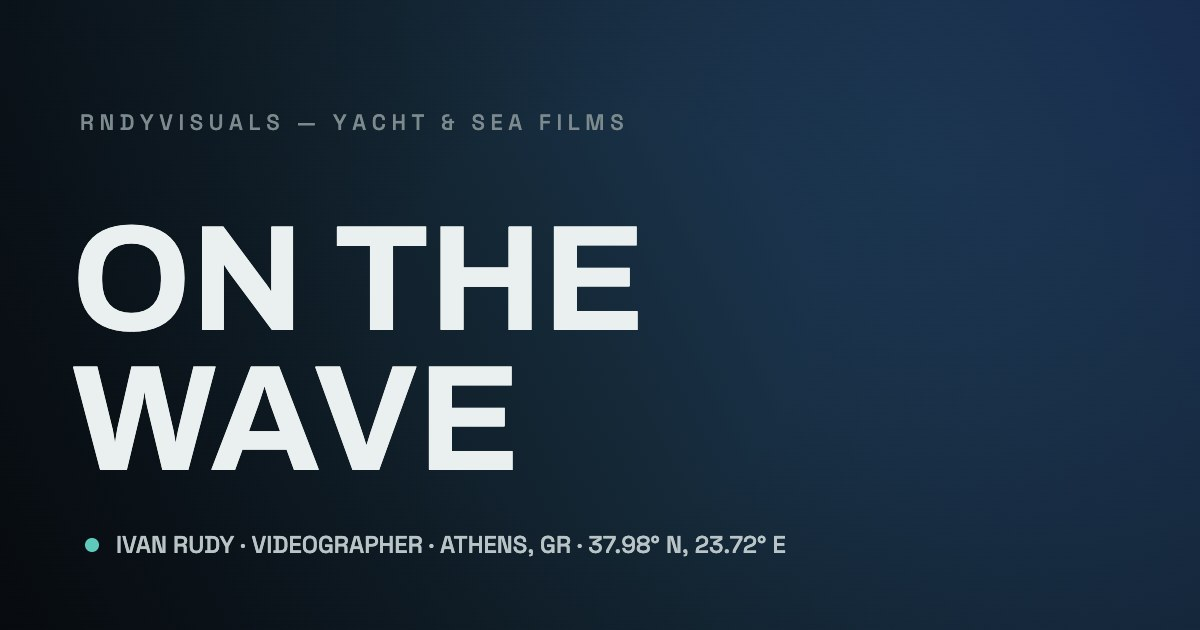
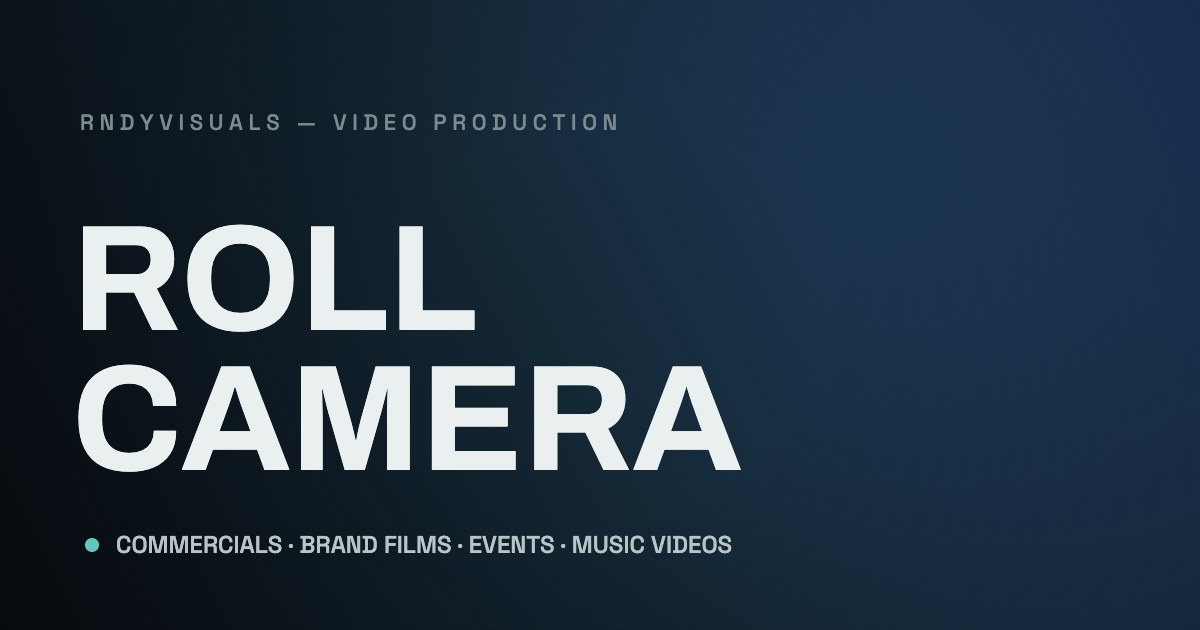
content: reposition RNDY as a commissioned video production company
Strip all yacht/sea/Greece theming from copy. New brand: professional
video production company, commissioned work (commercials, brand films,
events, music). Rewrite hero (ROLL / CAMERA), about, approach, contact,
work-index placeholders + poster category hues, 404, meta/OG, README.
Regenerate og.jpg. Site language stays English.

diff --git a/index.html b/index.html
@@ -3,28 +3,28 @@
   <head>
     <meta charset="UTF-8" />
     <meta name="viewport" content="width=device-width, initial-scale=1.0" />
-    <title>rndyvisuals — Yacht &amp; Sea Films · Ivan Rudy</title>
+    <title>rndyvisuals — Video Production Company</title>
     <meta
       name="description"
-      content="Ivan Rudy — videographer for yachts, regattas and the open sea. Based in Greece, shooting worldwide. Charter films, regatta highlights and licensed aerial coastline work."
+      content="RNDY is a professional video production company. Commercials, brand films, events and music videos — made on commission, from concept to final cut."
     />
     <meta name="theme-color" content="#070B0F" />
     <link rel="icon" href="./favicon.svg" type="image/svg+xml" />
 
     <meta property="og:type" content="website" />
     <meta property="og:site_name" content="rndyvisuals" />
-    <meta property="og:title" content="rndyvisuals — Yacht &amp; Sea Films · Ivan Rudy" />
+    <meta property="og:title" content="rndyvisuals — Video Production Company" />
     <meta
       property="og:description"
-      content="Videographer for yachts, regattas and the open sea. Based in Greece — shooting worldwide."
+      content="A professional video production company. Films made on commission — from concept to final cut."
     />
     <meta property="og:image" content="https://volossoftwaredevelopment.github.io/rndyvisuals/og.jpg" />
     <meta property="og:url" content="https://volossoftwaredevelopment.github.io/rndyvisuals/" />
     <meta name="twitter:card" content="summary_large_image" />
-    <meta name="twitter:title" content="rndyvisuals — Yacht &amp; Sea Films · Ivan Rudy" />
+    <meta name="twitter:title" content="rndyvisuals — Video Production Company" />
     <meta
       name="twitter:description"
-      content="Videographer for yachts, regattas and the open sea. Based in Greece — shooting worldwide."
+      content="A professional video production company. Films made on commission — from concept to final cut."
     />
     <meta name="twitter:image" content="https://volossoftwaredevelopment.github.io/rndyvisuals/og.jpg" />
 
@@ -97,8 +97,8 @@
         font-size: 11px;
         font-weight: 500;
         letter-spacing: 0.08em;
+        text-transform: uppercase;
         color: #4e5b60;
-        font-variant-numeric: tabular-nums;
       }
       html:not(.js) #preloader {
         display: none;
@@ -124,11 +124,11 @@
     <div class="preloader" id="preloader" aria-hidden="true">
       <div class="preloader__under"></div>
       <div class="preloader__panel">
-        <p class="preloader__brand">RNDYVISUALS — YACHT &amp; SEA FILMS</p>
+        <p class="preloader__brand">RNDYVISUALS — VIDEO PRODUCTION</p>
         <div class="preloader__counter-mask">
           <span class="preloader__counter">0</span>
         </div>
-        <p class="preloader__coords">37.98° N, 23.72° E</p>
+        <p class="preloader__coords">FILM ON COMMISSION</p>
       </div>
     </div>
 
@@ -172,18 +172,18 @@
           <div class="hero__scrim"></div>
         </div>
         <div class="hero__lockup">
-          <p class="hero__eyebrow micro" data-hero-fade>RNDYVISUALS — IVAN RUDY</p>
+          <p class="hero__eyebrow micro" data-hero-fade>RNDYVISUALS — VIDEO PRODUCTION</p>
           <h1 class="hero__title display">
-            <span class="hero__title-line">ON THE</span>
-            <span class="hero__title-line">WAVE</span>
+            <span class="hero__title-line">ROLL</span>
+            <span class="hero__title-line">CAMERA</span>
           </h1>
           <p class="hero__sub" data-hero-fade>
-            Videographer for yachts, regattas and the open sea. Based in Greece — shooting
-            worldwide.
+            Commercials, brand films, events and music videos — made on commission, from concept to
+            final cut.
           </p>
           <ul class="hero__meta micro tabular" data-hero-fade>
-            <li>ATHENS, GR · 37.98° N, 23.72° E</li>
-            <li>AVAILABLE — SEASON 2026</li>
+            <li>FULL-SERVICE VIDEO PRODUCTION</li>
+            <li>AVAILABLE FOR COMMISSIONS — 2026</li>
           </ul>
           <p class="hero__cta" data-hero-fade>
             <a class="btn" href="#reel" data-magnetic
@@ -202,11 +202,11 @@
           data-cursor="play"
           data-reveal="clip"
           data-parallax-frame
-          aria-label="Play showreel — two minutes of open water"
+          aria-label="Play showreel — two minutes of recent work"
         >
           <span class="reel__inner" data-clip-inner data-parallax-media></span>
           <span class="reel__overlay" aria-hidden="true"></span>
-          <span class="reel__caption" aria-hidden="true">Two minutes of open water.</span>
+          <span class="reel__caption" aria-hidden="true">Two minutes of recent work.</span>
           <span class="chip reel__chip tabular" aria-hidden="true">2:06</span>
           <span class="reel__play micro" aria-hidden="true">PLAY</span>
         </button>
@@ -221,14 +221,14 @@
         <ol class="work__list"></ol>
         <noscript>
           <ol class="noscript-list">
-            <li>01 — Aegean Crossing · S/Y Mythos · Yacht Film · 1:24 · 2025</li>
-            <li>02 — Meltemi · Saronic Regatta Week · Regatta Film · 2:08 · 2025</li>
-            <li>03 — Ionian, Slowly · Navis Yachting · Charter Promo · 1:05 · 2024</li>
-            <li>04 — Coastline Study I · Personal · Drone Study · 1:48 · 2024</li>
-            <li>05 — Delivery at First Light · M/Y Eleonora K · Delivery Film · 1:32 · 2025</li>
-            <li>06 — Spetses Classic · Classic Week Spetses · Regatta Film · 2:24 · 2023</li>
-            <li>07 — The Winter Sea · Personal · Short Film · 3:02 · 2024</li>
-            <li>08 — Tender to Shore · Calypso Charters · Charter Promo · 0:58 · 2023</li>
+            <li>01 — Night Shift · Aperture Coffee · Commercial · 1:12 · 2025</li>
+            <li>02 — Field Notes · Lumen Optics · Brand Film · 2:04 · 2025</li>
+            <li>03 — Afterglow · Kestrel Records · Music Video · 3:18 · 2024</li>
+            <li>04 — Opening Night · Meridian Festival · Event Film · 1:46 · 2024</li>
+            <li>05 — Signature · Oro Atelier · Fashion · 1:20 · 2025</li>
+            <li>06 — Made to Last · Forge &amp; Co. · Product · 0:58 · 2025</li>
+            <li>07 — The Long Way · Northbound · Documentary · 2:40 · 2023</li>
+            <li>08 — Launch Day · Vertex Labs · Corporate · 1:34 · 2023</li>
           </ol>
         </noscript>
       </section>
@@ -236,20 +236,20 @@
       <!-- §4.5 about -->
       <section class="section about" id="about" aria-labelledby="about-title">
         <h2 class="section__title display" id="about-title" data-reveal="headline-lines">
-          SHOT FROM THE WATER, NOT THE SHORE.
+          FROM BRIEF TO FINAL CUT.
         </h2>
         <div class="about__grid">
           <figure class="about__portrait" data-reveal="clip">
             <span class="about__portrait-art" data-clip-inner aria-hidden="true">
               <span class="about__portrait-sea"></span>
               <span class="about__portrait-grain"></span>
-              <span class="about__portrait-meta micro tabular">ON LOCATION · 37.98° N, 23.72° E</span>
+              <span class="about__portrait-meta micro tabular">ON SET · IN THE EDIT</span>
             </span>
             <!-- drop-in slot for the real portrait still:
             <img
               class="about__photo"
               src="./portrait.jpg"
-              alt="Ivan Rudy filming from a tender at sea"
+              alt="RNDY crew on set"
               loading="lazy"
               decoding="async"
             />
@@ -257,19 +257,19 @@
           </figure>
           <div class="about__copy">
             <p class="about__lede" data-reveal="fade-up">
-              I'm Ivan — a videographer based in Greece, working on and around the water.
+              RNDY is a video production company. You bring the brief — we bring the film.
             </p>
             <p class="about__body" data-reveal="fade-up">
-              For the past several seasons I've filmed sailing yachts, motor yachts, regattas and
-              the coastlines between them — from the deck, the tender and the air. My job is simple
-              to say and hard to do: make a vessel feel the way it feels to be aboard. The light at
-              seven in the morning. The sound of the hull at speed. The quiet after the sails are
-              trimmed. I keep crews small, schedules tight and edits honest. If it floats, I'll
-              find the film in it.
+              We're hired to make films: commercials, brand stories, event coverage, music videos.
+              We handle them end to end — concept, crew, shoot, edit, delivery — and we sweat the
+              things that make footage feel expensive: light, timing, sound, restraint. We keep
+              teams tight and briefs honest, we shoot fast without cutting corners, and we hit the
+              deadline. Ninety seconds for a launch or a full campaign across formats, the job is
+              the same: turn your brief into something people actually want to watch.
             </p>
             <ul class="about__meta">
-              <li class="micro" data-reveal="fade-up">BASED — ATHENS, GREECE</li>
-              <li class="micro" data-reveal="fade-up">LICENSED DRONE OPERATOR (EASA A1/A3)</li>
+              <li class="micro" data-reveal="fade-up">COMMISSIONS — WORLDWIDE</li>
+              <li class="micro" data-reveal="fade-up">FULL SERVICE — CONCEPT TO DELIVERY</li>
               <li class="micro" data-reveal="fade-up">DELIVERY — 4K MASTERS + SOCIAL CUTS</li>
             </ul>
           </div>
@@ -278,15 +278,16 @@
 
       <!-- §4.6 services / approach -->
       <section class="section approach" id="approach" aria-labelledby="approach-eyebrow">
-        <p class="eyebrow micro" id="approach-eyebrow" data-reveal="fade-up">WHAT I SHOOT</p>
+        <p class="eyebrow micro" id="approach-eyebrow" data-reveal="fade-up">WHAT WE DO</p>
         <ol class="approach__list">
           <li class="approach__row">
             <span class="approach__rule" data-reveal="rule" aria-hidden="true"></span>
             <div class="approach__inner" data-reveal="fade-up">
               <span class="approach__num micro tabular" aria-hidden="true">01</span>
-              <h3 class="approach__name display">Charter &amp; brokerage films</h3>
+              <h3 class="approach__name display">Commercials &amp; brand films</h3>
               <p class="approach__desc">
-                A vessel's best ninety seconds. Built for charter listings, brokers and owners.
+                A product's best ninety seconds. Built for launches, campaigns and the brands
+                behind them.
               </p>
             </div>
           </li>
@@ -294,9 +295,9 @@
             <span class="approach__rule" data-reveal="rule" aria-hidden="true"></span>
             <div class="approach__inner" data-reveal="fade-up">
               <span class="approach__num micro tabular" aria-hidden="true">02</span>
-              <h3 class="approach__name display">Regattas &amp; events</h3>
+              <h3 class="approach__name display">Events &amp; coverage</h3>
               <p class="approach__desc">
-                Race starts, mark roundings, prize-givings. Same-week highlight edits.
+                Conferences, shows, openings and weddings. Same-week highlight edits.
               </p>
             </div>
           </li>
@@ -304,9 +305,9 @@
             <span class="approach__rule" data-reveal="rule" aria-hidden="true"></span>
             <div class="approach__inner" data-reveal="fade-up">
               <span class="approach__num micro tabular" aria-hidden="true">03</span>
-              <h3 class="approach__name display">Aerial &amp; coastline</h3>
+              <h3 class="approach__name display">Music &amp; motion</h3>
               <p class="approach__desc">
-                Licensed drone work over open water — establishing shots, itineraries, anchorages.
+                Music videos, title sequences and social content — shot and cut to the beat.
               </p>
             </div>
           </li>
@@ -321,7 +322,7 @@
       <section class="section contact" id="contact" aria-labelledby="contact-title">
         <div class="contact__body">
           <h2 class="contact__title display" id="contact-title" data-reveal="headline-lines">
-            TELL ME ABOUT YOUR BOAT.
+            TELL US ABOUT THE SHOOT.
           </h2>
           <div class="contact__ctas">
             <a
@@ -338,15 +339,15 @@
             >
           </div>
           <p class="contact__note caption" data-reveal="fade-up">
-            Based in Athens — available worldwide. Charters: dates &amp; itinerary. Regattas:
-            schedule &amp; format. Reply within 24–48 h.
+            Available for commissions worldwide. Send the brief, the deadline and the format — we
+            reply within 24–48 h.
           </p>
         </div>
         <!-- nested inside section/main, so the landmark needs the explicit role -->
         <footer class="footer" role="contentinfo">
           <span class="rule-line" data-reveal="rule" aria-hidden="true"></span>
           <div class="footer__bar micro">
-            <span class="footer__copy">© 2026 rndyvisuals — Ivan Rudy</span>
+            <span class="footer__copy">© 2026 rndyvisuals</span>
             <a href="https://www.instagram.com/rndyvisuals/" target="_blank" rel="noopener noreferrer"
               >Instagram</a
             >
@@ -356,7 +357,7 @@
               rel="noopener noreferrer"
               >YouTube</a
             >
-            <span class="tabular">37.98° N, 23.72° E</span>
+            <span>FILM ON COMMISSION</span>
             <a href="#top">Back to top</a>
           </div>
         </footer>

diff --git a/public/404.html b/public/404.html
@@ -5,7 +5,7 @@
   <meta name="viewport" content="width=device-width, initial-scale=1" />
   <meta name="robots" content="noindex" />
   <meta name="theme-color" content="#070B0F" />
-  <title>404 — Lost at Sea · rndyvisuals</title>
+  <title>404 — Out of Frame · rndyvisuals</title>
   <style>
     /* Standalone page: no JS, no webfonts — system fallbacks per site token stacks. */
     :root {
@@ -125,21 +125,21 @@
 <body>
   <header class="micro">
     <span>RNDY&reg;</span>
-    <span>YACHT &amp; SEA FILMS</span>
+    <span>VIDEO PRODUCTION</span>
   </header>
 
   <main>
-    <h1><span>Lost</span><span>At Sea</span></h1>
+    <h1><span>Out</span><span>Of Frame</span></h1>
     <p class="sub micro">404 &mdash; this frame was never shot</p>
     <!-- Absolute URL on purpose: GitHub Pages serves 404.html at the requested
          path, so a relative "./" would resolve against e.g. /rndyvisuals/work/foo
          and loop back to this page. Update on custom-domain migration (see README). -->
-    <a class="back" href="https://volossoftwaredevelopment.github.io/rndyvisuals/">Back to harbor</a>
+    <a class="back" href="https://volossoftwaredevelopment.github.io/rndyvisuals/">Back to the reel</a>
   </main>
 
   <footer class="micro">
     <span>&copy; 2026 rndyvisuals</span>
-    <span>37.98&deg; N, 23.72&deg; E</span>
+    <span>FILM ON COMMISSION</span>
   </footer>
 </body>
 </html>

diff --git a/src/modules/posters.ts b/src/modules/posters.ts
@@ -2,13 +2,17 @@
 
 import type { VideoEntry } from '../types'
 
+// Cool/editorial hue per category — kept in the 168–300° range so posters stay
+// cohesive with the cold palette + teal accent while varying by work type (§8).
 const HUE_BY_CATEGORY: Record<string, number> = {
-  'Yacht Film': 200,
-  'Regatta Film': 215,
-  'Charter Promo': 174,
-  'Drone Study': 232,
-  'Delivery Film': 188,
-  'Short Film': 252,
+  Commercial: 205,
+  'Brand Film': 190,
+  'Music Video': 280,
+  'Event Film': 235,
+  Fashion: 300,
+  Product: 168,
+  Documentary: 250,
+  Corporate: 215,
 }
 
 /** Deterministic ±8° jitter from the id hash (§8). */

diff --git a/src/styles/tokens.css b/src/styles/tokens.css
@@ -1,7 +1,7 @@
 /* RNDYVISUALS — design tokens (DESIGN_SPEC §2 palette, §3 type, §6 easings) */
 
 :root {
-  /* surfaces — near-black with a cold sea tint */
+  /* surfaces — near-black with a cold blue tint */
   --bg:        #070B0F;
   --surface:   #0D141A;
   --surface-2: #131C24;
@@ -16,7 +16,7 @@
   --ink-mid: #7C8A8E;
   --ink-low: #4E5B60;
 
-  /* accent — sea glass; rationed per §2 rule */
+  /* accent — teal; rationed per §2 rule */
   --accent:     #5FC9BA;
   --accent-dim: #2E5F58;
 

diff --git a/src/styles/components.css b/src/styles/components.css
@@ -111,7 +111,7 @@
   inset: -13% 0 0 0;
 }
 
-/* cinematic gradient field — 'sea at night', hue 200 (§8 language) */
+/* cinematic gradient field — cold night tone, hue ~205 (§8 language) */
 .hero__sea {
   position: absolute;
   inset: 0;

diff --git a/README.md b/README.md
@@ -1,6 +1,6 @@
-# rndyvisuals — сайт-портфолио Ивана Руди
+# rndyvisuals — сайт видеопродакшена
 
-Одностраничный кинематографичный сайт видеографа **Ivan Rudy (rndyvisuals)** — яхты, регаты, открытое море, Греция.
+Одностраничный кинематографичный сайт **RNDY (rndyvisuals)** — профессиональной видеокомпании: съёмка на заказ (реклама, бренд-фильмы, события, музыкальные клипы), от идеи до финального монтажа.
 
 - **Сайт:** https://volossoftwaredevelopment.github.io/rndyvisuals/
 - **Админка:** https://volossoftwaredevelopment.github.io/rndyvisuals/admin.html (скрытая, ссылок с сайта на неё нет)
@@ -75,10 +75,10 @@ npm run preview    # посмотреть собранную версию лок
 
 | Поле | Что это |
 |---|---|
-| `id` | уникальный слаг латиницей через дефис, например `aegean-crossing` (используется в адресе оверлея) |
-| `title` | название фильма, как оно выводится в списке работ |
-| `client` | заказчик / судно, например `S/Y Mythos` или `Personal` |
-| `category` | категория: `Yacht Film`, `Regatta Film`, `Charter Promo`, `Drone Study`, `Delivery Film`, `Short Film`… |
+| `id` | уникальный слаг латиницей через дефис, например `night-shift` (используется в адресе оверлея) |
+| `title` | название работы, как оно выводится в списке работ |
+| `client` | заказчик, например `Aperture Coffee` (или `Personal` для своих работ) |
+| `category` | категория: `Commercial`, `Brand Film`, `Music Video`, `Event Film`, `Fashion`, `Product`, `Documentary`, `Corporate`… (цвет постера-заглушки зависит от категории — новые категории можно добавить в `src/modules/posters.ts`) |
 | `year` | год, число — `2025` |
 | `duration` | длительность строкой — `1:24` |
 | `source.type` | откуда видео: `youtube`, `vimeo`, `file` или `placeholder` (заглушка без видео) |
@@ -91,12 +91,12 @@ npm run preview    # посмотреть собранную версию лок
 
 ```json
 {
-  "id": "aegean-crossing",
-  "title": "Aegean Crossing",
-  "client": "S/Y Mythos",
-  "category": "Yacht Film",
+  "id": "night-shift",
+  "title": "Night Shift",
+  "client": "Aperture Coffee",
+  "category": "Commercial",
   "year": 2025,
-  "duration": "1:24",
+  "duration": "1:12",
   "source": { "type": "youtube", "id": "AbCdEf12345" },
   "poster": "",
   "featured": true
@@ -137,7 +137,7 @@ npm run preview    # посмотреть собранную версию лок
    ```
 2. У регистратора домена добавь DNS-запись **CNAME → `volossoftwaredevelopment.github.io`** (для apex-домена без `www` некоторые регистраторы требуют A/ALIAS-записи — см. доку GitHub Pages).
 3. В репозитории: **Settings → Pages → Custom domain** → введи домен → дождись проверки → включи **Enforce HTTPS**.
-4. В коде поменяй на новый адрес: `liveUrl` в `src/site.config.ts`, `og:url` в `index.html` и ссылку «Back to harbor» в `public/404.html` (там абсолютный URL — относительный на странице 404 зацикливался бы). Запушь.
+4. В коде поменяй на новый адрес: `liveUrl` в `src/site.config.ts`, `og:url` + `og:image` в `index.html` и ссылку «Back to the reel» в `public/404.html` (там абсолютный URL — относительный на странице 404 зацикливался бы). Запушь.
 
 Больше ничего трогать не нужно: сборка использует `base: './'` (все пути относительные), поэтому тот же билд одинаково работает и на `volossoftwaredevelopment.github.io/rndyvisuals/`, и на собственном домене.
 
